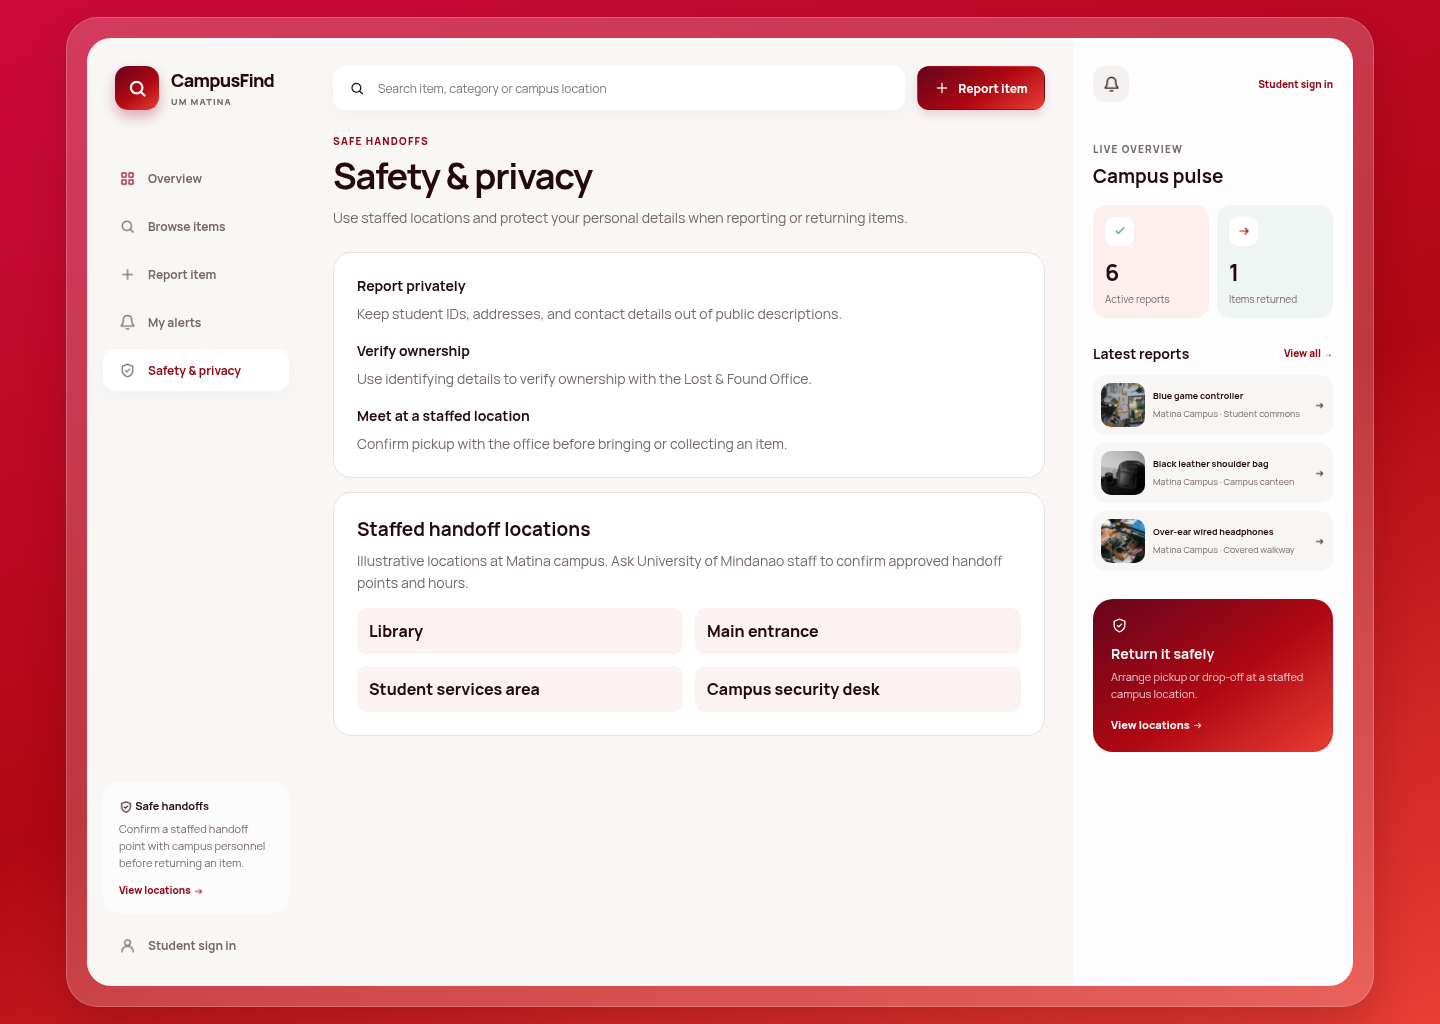
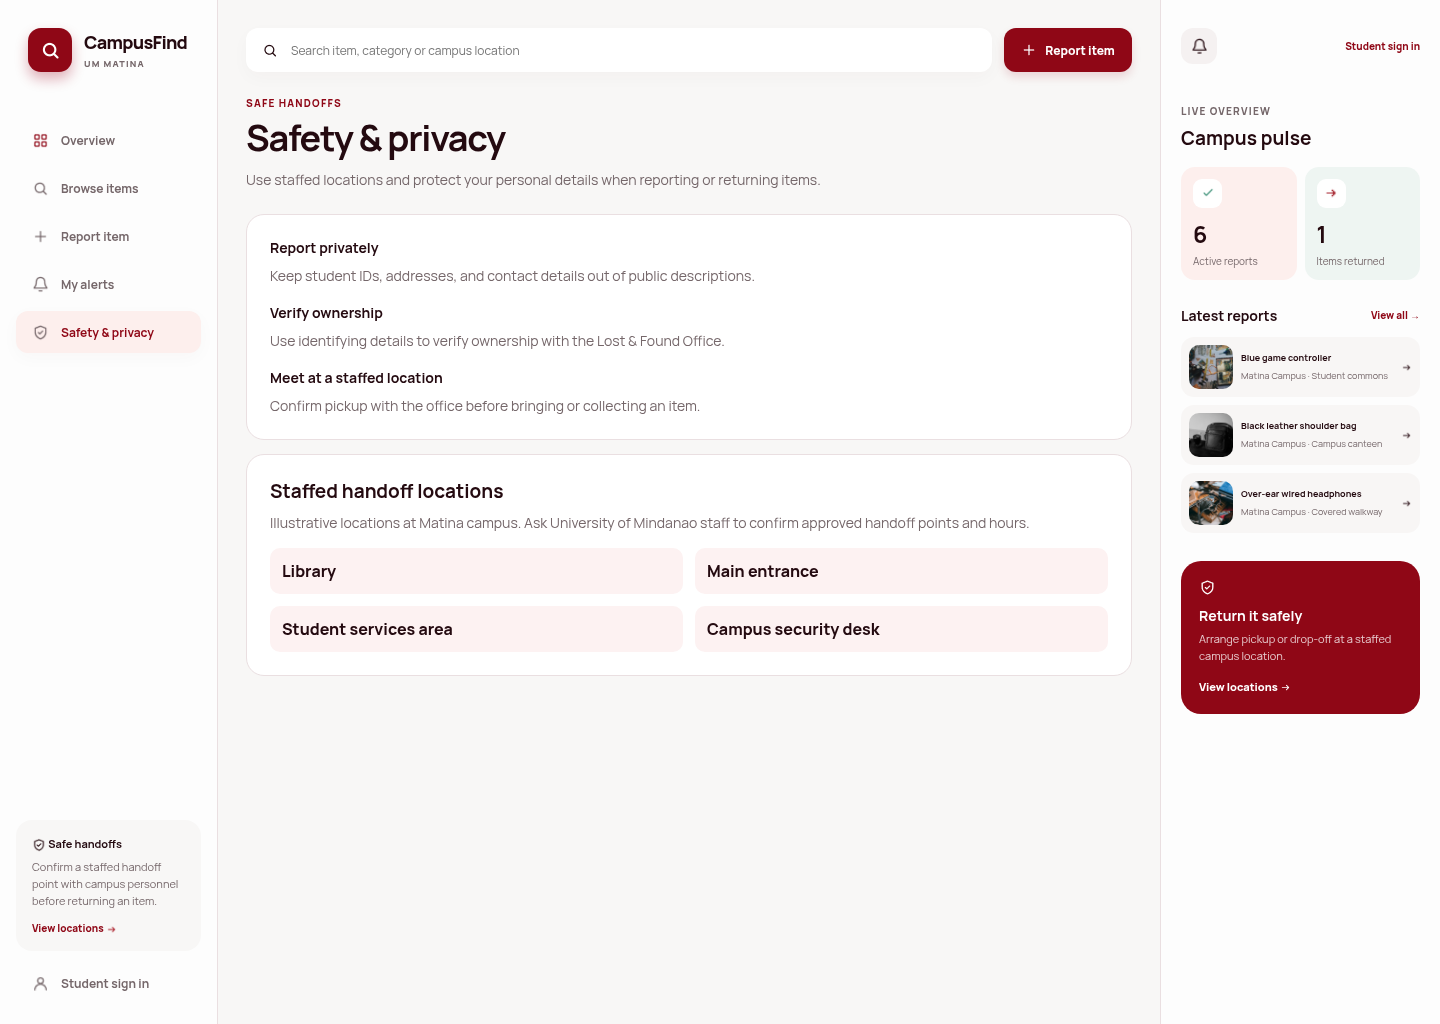
Give the CampusFind Java website a full-page layout

diff --git a/src/styles.css b/src/styles.css
@@ -2,17 +2,16 @@
 :root {
   font-family: Manrope, system-ui, sans-serif;
   color: #240a10;
-  background: linear-gradient(160deg, #cb0a3a, #b00812 55%, #e83e36);
+  background: #f8f7f6;
   font-synthesis: none;
   --accent: #8f0716;
   --muted: #75676a;
-  --gradient: linear-gradient(145deg, #65051d, #b00812 55%, #e83e36);
   --surface: #f8f7f6;
   --border: #eadfe1;
 }
 
 * { box-sizing: border-box; }
-body { margin: 0; min-height: 100vh; padding: 17px 28px; }
+body { margin: 0; min-height: 100vh; }
 a { color: inherit; text-decoration: none; }
 button, input, textarea, select { font: inherit; }
 button { cursor: pointer; }
@@ -24,43 +23,48 @@ h2 { font-size: 19px; }
 h3 { font-size: 14px; }
 .icon { width: 17px; height: 17px; object-fit: contain; vertical-align: middle; }
 .shell {
-  width: min(100%, 1308px); min-height: calc(100vh - 34px); margin: 0 auto; padding: 20px;
-  display: grid; grid-template-columns: 218px minmax(0, 1fr) 280px;
-  background: #ffffff32; border: 1px solid #ffffff34; border-radius: 32px;
-  box-shadow: 0 20px 40px #3c000233;
+  min-height: 100vh;
+  display: grid;
+  grid-template-columns: 218px minmax(0, 1fr) 280px;
+  background: var(--surface);
 }
 .sidebar, .activity, main { min-width: 0; }
-.sidebar, main { background: var(--surface); }
-.sidebar { display: flex; flex-direction: column; padding: 28px 16px 20px; border-radius: 24px 0 0 24px; }
+.sidebar {
+  display: flex;
+  flex-direction: column;
+  padding: 28px 16px 20px;
+  background: #fdfdfd;
+  border-right: 1px solid var(--border);
+}
 .brand { display: flex; align-items: center; gap: 12px; padding: 0 12px; font-size: 18px; font-weight: 800; letter-spacing: -.04em; }
 .brand small { display: block; margin-top: 3px; font-size: 9px; text-transform: uppercase; letter-spacing: .13em; color: var(--muted); }
-.brand-icon { display: grid; place-items: center; width: 44px; height: 44px; background: var(--gradient); border-radius: 13px; box-shadow: 0 7px 13px #a0082250; }
+.brand-icon { display: grid; place-items: center; width: 44px; height: 44px; background: var(--accent); border-radius: 13px; box-shadow: 0 7px 13px #a0082250; }
 .brand-icon .icon { width: 21px; height: 21px; }
 nav { display: grid; gap: 6px; margin-top: 47px; }
 nav a, .account { display: flex; align-items: center; gap: 12px; min-height: 42px; padding: 8px 16px; border-radius: 12px; color: var(--muted); font-size: 12px; font-weight: 700; }
-nav a[aria-current], nav a:hover { background: white; color: var(--accent); box-shadow: 0 5px 18px #4f062607; }
+nav a[aria-current], nav a:hover { background: #fdefed; color: var(--accent); box-shadow: 0 5px 18px #4f062607; }
 .sidebar-bottom { margin-top: auto; padding-top: 24px; }
-.handoff { padding: 16px; border-radius: 16px; background: #ffffffa0; font-size: 11px; }
+.handoff { padding: 16px; border-radius: 16px; background: var(--surface); font-size: 11px; }
 .handoff p, .activity p, .intro > p:last-child, .surface > p { color: var(--muted); line-height: 1.55; }
 .handoff p { margin: 6px 0 11px; }
 .handoff a, .rail-top > a:last-child, .subhead > a { color: var(--accent); font-weight: 800; font-size: 10px; }
 .handoff strong .icon { width: 14px; height: 14px; }
 .account { border: 0; background: transparent; margin-top: 11px; width: 100%; }
 
-main { padding: 28px; }
+main { padding: 28px clamp(28px, calc((100vw - 1440px) / 2), 76px); }
 .toolbar { display: flex; gap: 12px; margin-bottom: 24px; }
 .toolbar form { flex: 1; display: flex; align-items: center; gap: 10px; min-width: 0; background: white; border-radius: 12px; padding: 0 16px; box-shadow: 0 6px 18px #4f062607; }
 .toolbar input { width: 100%; border: 0; background: transparent; min-height: 44px; font-size: 12px; }
 .button { display: inline-flex; justify-content: center; align-items: center; min-height: 40px; padding: 9px 16px; border: 1px solid transparent; border-radius: 12px; font-size: 12px; font-weight: 800; text-align: center; }
 .toolbar .button { min-width: 128px; min-height: 44px; }
-.primary { color: white; background: var(--gradient); box-shadow: 0 5px 10px #9f061b24; }
+.primary { color: white; background: var(--accent); box-shadow: 0 5px 10px #9f061b24; }
 .secondary { color: var(--accent); background: white; border-color: var(--border); }
 .glass { color: white; background: #ffffff1b; border-color: #ffffff2c; }
 .actions { display: flex; flex-wrap: wrap; gap: 8px; margin-top: 18px; }
 .eyebrow { color: var(--accent); font-size: 10px; font-weight: 800; letter-spacing: .12em; text-transform: uppercase; }
 .hero {
   position: relative; isolation: isolate; overflow: hidden; min-height: 325px; border-radius: 22px; padding: 36px 32px;
-  color: white; background: var(--gradient);
+  color: white; background: var(--accent);
 }
 .hero::before { content: ''; position: absolute; inset: -180px -95px auto auto; width: 350px; height: 330px; border: 1px solid #ffffff26; border-radius: 50%; }
 .hero-copy { position: relative; z-index: 1; }
@@ -68,8 +72,8 @@ main { padding: 28px; }
 .hero p { max-width: 420px; color: #ffffffcb; font-size: 14px; }
 .hero-tag { display: inline-flex; align-items: center; gap: 5px; padding: 5px 12px; border-radius: 999px; background: #ffffff24; text-transform: uppercase; letter-spacing: .14em; font-size: 9px; font-weight: 800; }
 .hero-tag .icon { width: 11px; height: 11px; }
-.hero-art img { position: absolute; right: 30px; bottom: 55px; width: 97px; aspect-ratio: 1; object-fit: cover; border: 4px solid #ffffff45; border-radius: 24px; transform: rotate(12deg); }
-.hero-art img:nth-child(2) { right: 133px; bottom: -6px; width: 80px; transform: rotate(-12deg); }
+.hero-art > img { position: absolute; right: 30px; bottom: 55px; width: 97px; aspect-ratio: 1; object-fit: cover; border: 4px solid #ffffff45; border-radius: 24px; transform: rotate(12deg); }
+.hero-art > img:nth-child(2) { right: 133px; bottom: -6px; width: 80px; transform: rotate(-12deg); }
 .hero-art span { position: absolute; right: 21px; bottom: 9px; display: grid; place-items: center; width: 48px; height: 48px; background: white; color: var(--accent); border-radius: 50%; font-size: 22px; font-weight: 800; }
 .intro { margin: 3px 0 24px; }
 .intro h1 { margin: 8px 0 10px; }
@@ -82,7 +86,7 @@ main { padding: 28px; }
 .chip .icon { width: 11px; height: 11px; }
 .segmented .chip { background: transparent; text-transform: capitalize; min-width: 43px; justify-content: center; }
 .segmented .chip[aria-pressed="true"] { background: white; color: var(--accent); }
-.filters .chip[aria-pressed="true"] { color: white; background: var(--gradient); }
+.filters .chip[aria-pressed="true"] { color: white; background: var(--accent); }
 .filters .chip[aria-pressed="true"] .icon { filter: brightness(0) invert(1); }
 .items, .tiles { display: grid; grid-template-columns: repeat(2, minmax(0, 1fr)); gap: 12px; margin: 18px 0 0; }
 .items + .button { margin-top: 16px; }
@@ -121,7 +125,7 @@ main { padding: 28px; }
 .item-summary dt { font-weight: 800; }
 .item-summary dd { margin: 4px 0 14px; overflow-wrap: anywhere; color: var(--muted); }
 
-.activity { background: #fdfdfd; border-radius: 0 24px 24px 0; padding: 28px 20px; }
+.activity { background: #fdfdfd; border-left: 1px solid var(--border); padding: 28px 20px; }
 .rail-top { display: flex; justify-content: space-between; align-items: center; margin-bottom: 40px; }
 .bell { display: grid; place-items: center; width: 36px; height: 36px; border-radius: 12px; background: #f5f1f1; }
 .activity > .eyebrow { color: #75676a; }
@@ -135,7 +139,7 @@ main { padding: 28px; }
 .latest a { display: grid; grid-template-columns: 44px minmax(0, 1fr) auto; align-items: center; gap: 8px; border-radius: 13px; padding: 8px; background: #f8f6f5; font-size: 9px; }
 .latest .photo { width: 44px; height: 44px; border-radius: 10px; }
 .latest small { display: block; margin-top: 5px; }
-.safe-card { margin-top: 28px; border-radius: 20px; background: var(--gradient); padding: 18px; color: white; }
+.safe-card { margin-top: 28px; border-radius: 20px; background: var(--accent); padding: 18px; color: white; }
 .safe-card .icon { margin-bottom: 10px; }
 .safe-card p { margin: 5px 0 10px; color: #ffffffcc; font-size: 11px; }
 .safe-card a { font-size: 11px; font-weight: 800; }
@@ -149,18 +153,16 @@ main { padding: 28px; }
 @media (max-width: 950px) {
   .shell { grid-template-columns: 160px minmax(0, 1fr); }
   .activity { display: none; }
-  main { border-radius: 0 24px 24px 0; }
 }
 @media (max-width: 650px) {
-  body { padding: 8px; }
-  .shell { display: block; padding: 8px; border-radius: 20px; }
-  .sidebar { padding: 12px; border-radius: 14px 14px 0 0; }
+  .shell { display: block; }
+  .sidebar { padding: 12px; border-right: 0; border-bottom: 1px solid var(--border); }
   .sidebar-bottom { padding: 0; }
   .sidebar-bottom .handoff { display: none; }
   .account { padding-left: 8px; min-height: 30px; }
   nav { display: flex; flex-wrap: wrap; gap: 3px; margin-top: 12px; }
   nav a { padding: 5px 8px; min-height: 33px; }
-  main { padding: 14px; border-radius: 0 0 14px 14px; }
+  main { padding: 14px; }
   .hero { padding: 23px 19px; min-height: auto; }
   .hero-art { display: none; }
   .items, .tiles { grid-template-columns: 1fr; }

diff --git a/README.md b/README.md
@@ -12,33 +12,21 @@ This is the **Second Deliverable — Initial Progress (50%)**. The Office and St
 | Zen Afi Inarsao | UI/UX design and documentation |
 | Heinz Colman | Coding |
 
-## Run the Java desktop app
+## Run the Java website
 
-On Windows, extract the repository ZIP and open the project folder. Double-click **`run-desktop.bat`**, or run `./run-desktop.bat` from PowerShell. The launcher compiles the Swing app with the Java 21 JDK and opens the desktop window. A browser and a running HTTP server are optional for this version.
+1. Clone or download and extract this repository. In VS Code, open the project folder and choose **Terminal → New Terminal**.
+2. With Java 21 or later installed, run this command from the project root.
 
-On macOS or Linux, run these commands from the project folder with the Java 21 JDK:
-
-```sh
-mkdir -p build/desktop
-javac -encoding UTF-8 -d build/desktop src/main/java/campusfind/CampusFind.java src/main/java/campusfind/CampusFindDesktop.java
-java -cp build/desktop campusfind.CampusFindDesktop
-```
-
-The desktop version includes the Office overview, Campus Board, item details, Student demo, My Reports, Alerts, Safety, and the report form and preview. It uses the same Java validation and report storage as the web version. Desktop submissions appear under the desktop demo profile in My Reports.
-
-## Run the web version locally
-
-1. Clone or download this repository and open a terminal in its root directory.
-2. With Java 21 or later installed, run the Java source from the repository root.
-
-   ```sh
+   ```powershell
    java src/main/java/campusfind/CampusFind.java
    ```
 
-3. Open [http://127.0.0.1:8000](http://127.0.0.1:8000) in a modern browser.
-4. Select **Student sign in**, then **Open Student demo** to enter the Student workspace.
+3. Leave the terminal open and visit [http://127.0.0.1:8000](http://127.0.0.1:8000).
+4. To enter the Student workspace, select **Student sign in**, then **Open Student demo**.
 
-The application uses Java for report validation, search, filtering, and storage. The browser interface uses HTML, CSS, and JavaScript. Java source-file mode launches the app without a separate build or dependency installation. To use a different port, add it as the first argument, for example `java src/main/java/campusfind/CampusFind.java 8080`.
+Java serves the site and handles validation, search, filtering, and report storage. The browser interface uses HTML, CSS, and JavaScript. To use a different port, pass it as the first argument, for example `java src/main/java/campusfind/CampusFind.java 8080`.
+
+The optional Swing desktop version can still be launched on Windows with `run-desktop.bat`.
 
 ## Current functionality
 
@@ -51,7 +39,7 @@ Student sign-in uses a demo profile. Submitted reports persist in the local Java
 
 ## Screenshots
 
-The [screenshots folder](screenshots/) contains labeled desktop captures from the running application.
+The [screenshots folder](screenshots/) contains labeled browser screenshots from the running Java website.
 
 | Panel | Office | Student |
 | --- | --- | --- |
